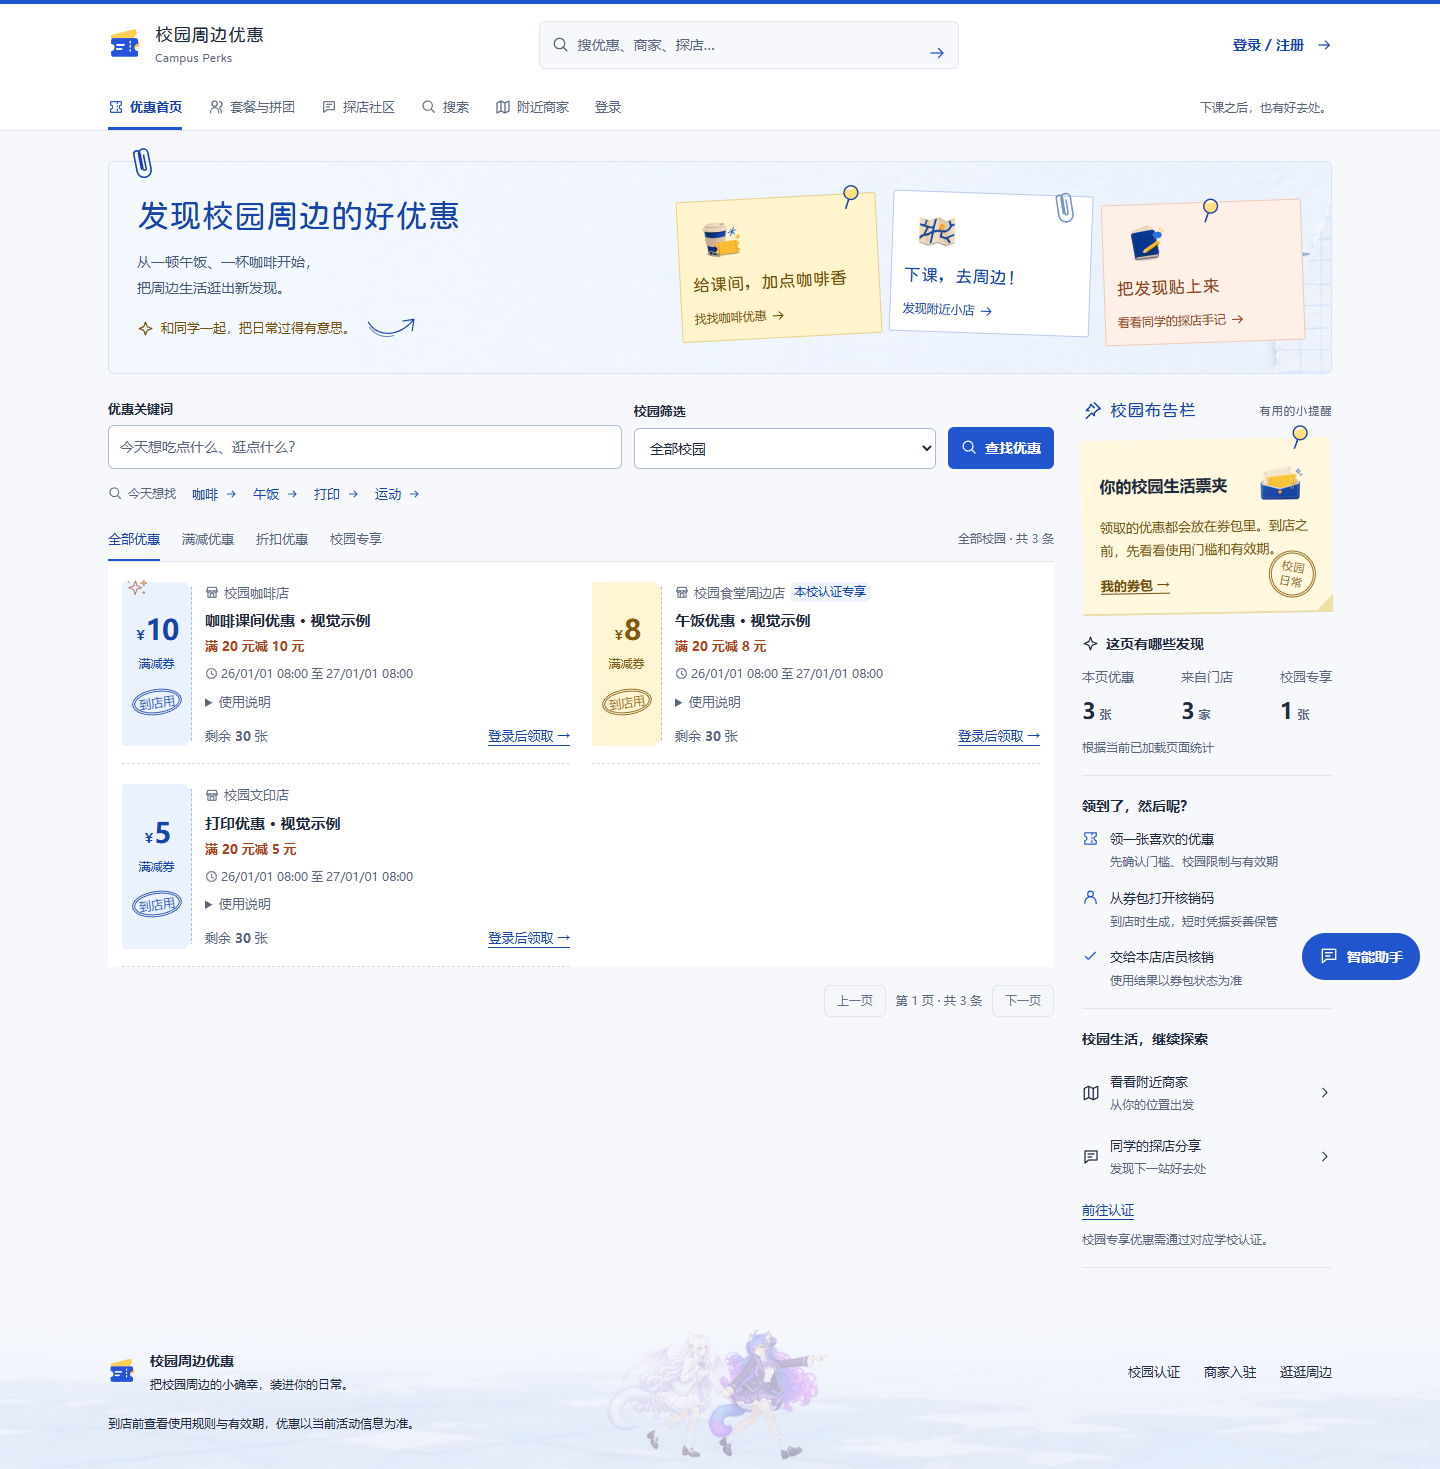
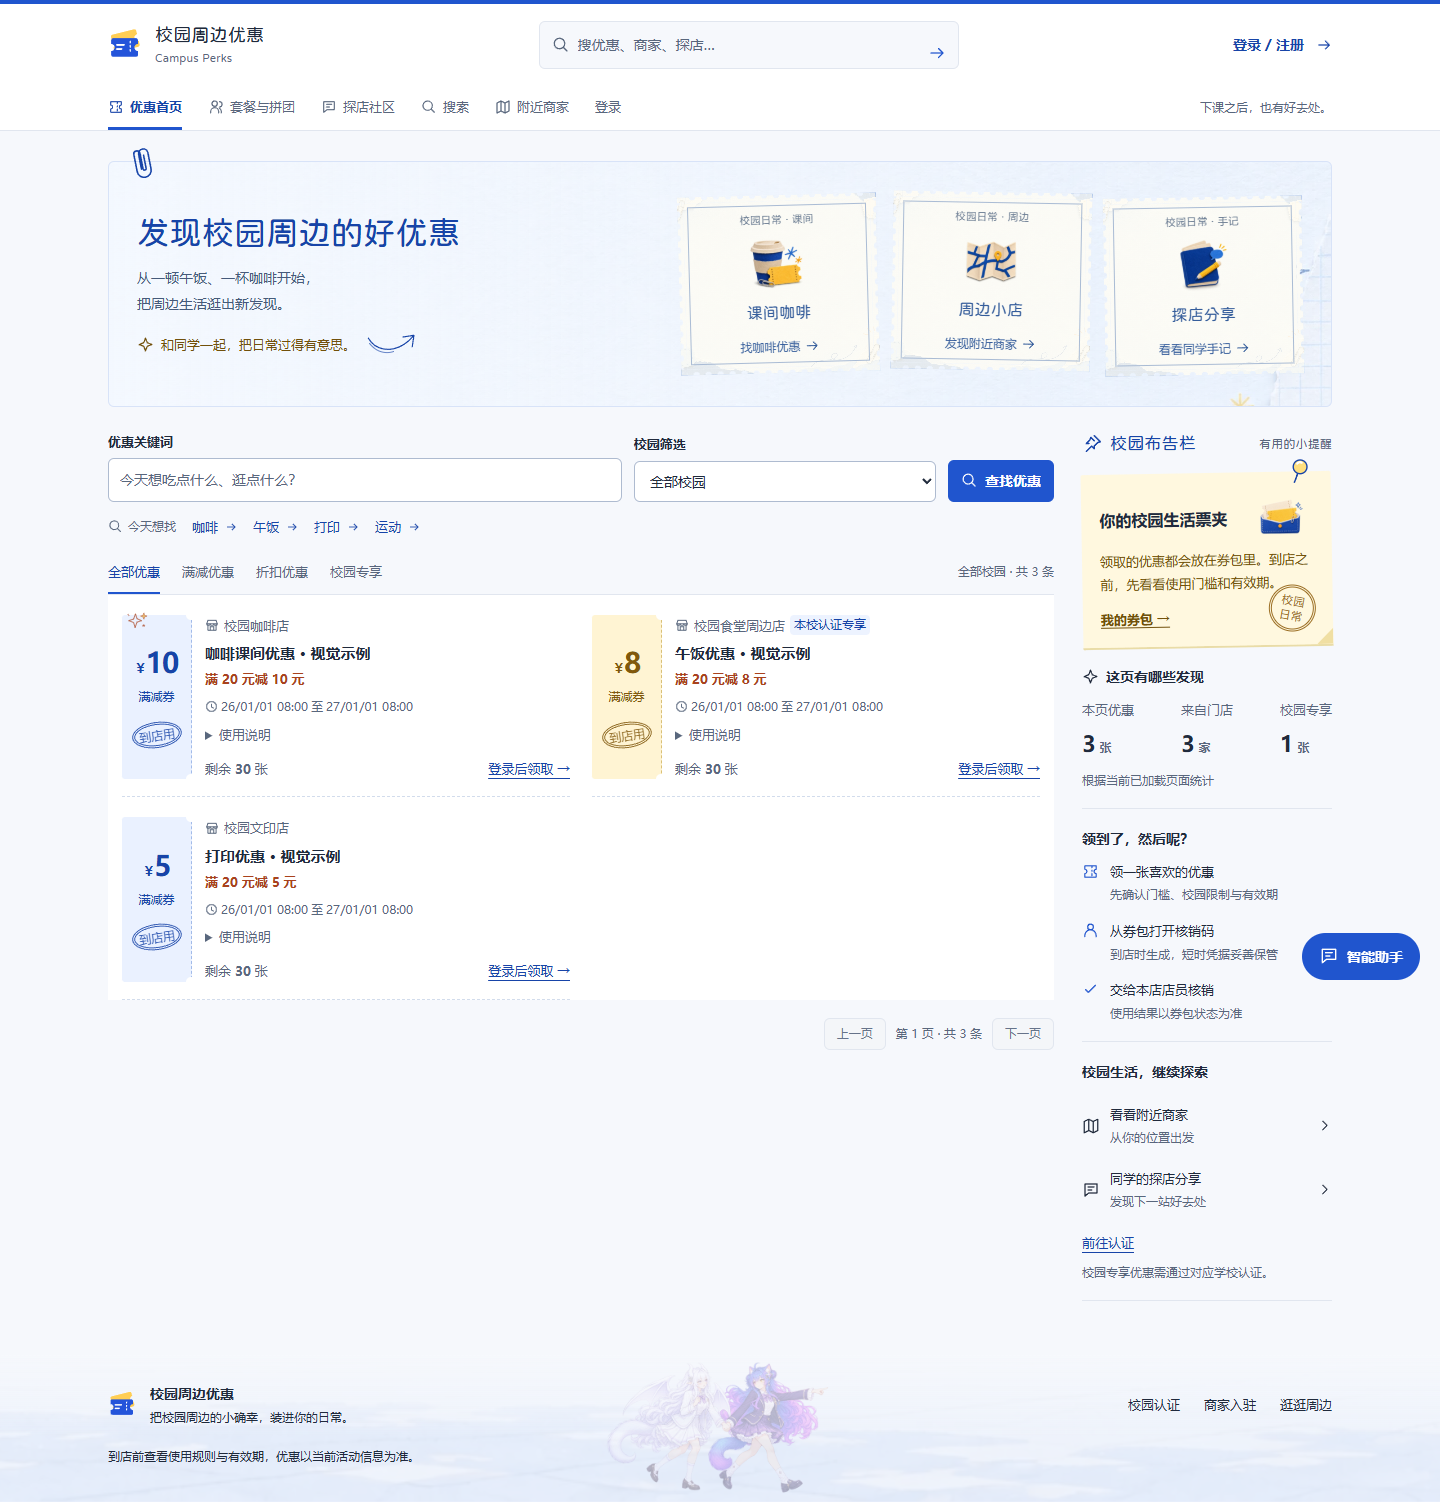
refactor(frontend-exp): present discovery entries as paper postage stamps

diff --git a/frontend/src/campus-features/campus-coupon/CouponCatalogView.vue b/frontend/src/campus-features/campus-coupon/CouponCatalogView.vue
@@ -59,10 +59,10 @@ async function claim(row: PublicCoupon) {
     <div class="discovery-intro">
       <CampusOrnament kind="clip" class="intro-fastener" />
       <div class="discovery-copy"><h1>发现校园周边的好优惠</h1><p>从一顿午饭、一杯咖啡开始，<br />把周边生活逛出新发现。</p><div class="discovery-invitation"><CampusIcon name="spark" :size="17" />和同学一起，把日常过得有意思。<CampusOrnament kind="arrow" class="invitation-arrow" /></div></div>
-      <nav class="notice-slips" aria-label="课间发现便签">
-        <button class="notice-slip coffee-slip" type="button" :disabled="busy" @click="findTopic('咖啡')"><CampusOrnament kind="pin" class="slip-fastener" /><img class="notice-slip-art" :src="coffeeTicket" alt="" aria-hidden="true" width="640" height="427" decoding="async" /><strong>给课间，加点咖啡香</strong><span>找找咖啡优惠<CampusIcon name="arrow" :size="15" /></span></button>
-        <RouterLink class="notice-slip explore-slip" to="/nearby"><CampusOrnament kind="clip" class="slip-fastener" /><img class="notice-slip-art" :src="mapDiscovery" alt="" aria-hidden="true" width="640" height="427" decoding="async" /><strong>下课，去周边！</strong><span>发现附近小店<CampusIcon name="arrow" :size="15" /></span></RouterLink>
-        <RouterLink class="notice-slip share-slip" to="/community"><CampusOrnament kind="pin" class="slip-fastener" /><img class="notice-slip-art" :src="communityNotes" alt="" aria-hidden="true" width="640" height="427" decoding="async" /><strong>把发现贴上来</strong><span>看看同学的探店手记<CampusIcon name="arrow" :size="15" /></span></RouterLink>
+      <nav class="notice-slips" aria-label="校园生活邮票入口">
+        <button class="notice-slip coffee-slip" type="button" aria-label="课间咖啡，查找咖啡优惠" :disabled="busy" @click="findTopic('咖啡')"><span class="stamp-meta" aria-hidden="true">校园日常 · 课间</span><img class="notice-slip-art" :src="coffeeTicket" alt="" aria-hidden="true" width="640" height="427" decoding="async" /><strong>课间咖啡</strong><span class="stamp-action">找咖啡优惠<CampusIcon name="arrow" :size="15" /></span></button>
+        <RouterLink class="notice-slip explore-slip" to="/nearby"><span class="stamp-meta" aria-hidden="true">校园日常 · 周边</span><img class="notice-slip-art" :src="mapDiscovery" alt="" aria-hidden="true" width="640" height="427" decoding="async" /><strong>周边小店</strong><span class="stamp-action">发现附近商家<CampusIcon name="arrow" :size="15" /></span></RouterLink>
+        <RouterLink class="notice-slip share-slip" to="/community"><span class="stamp-meta" aria-hidden="true">校园日常 · 手记</span><img class="notice-slip-art" :src="communityNotes" alt="" aria-hidden="true" width="640" height="427" decoding="async" /><strong>探店分享</strong><span class="stamp-action">看看同学手记<CampusIcon name="arrow" :size="15" /></span></RouterLink>
       </nav>
     </div>
     <div class="discovery-layout">
@@ -129,18 +129,35 @@ async function claim(row: PublicCoupon) {
 .invitation-arrow { width: 52px; height: 27px; margin-left: 3px; }
 .discovery-copy p { color: #455a7a; font-size: 14px; line-height: 1.85; margin: 0; }
 .discovery-invitation { display: flex; align-items: center; gap: 7px; color: #71500b; font-size: 13px; margin-top: 14px; }
-.notice-slips { display: grid; grid-template-columns: repeat(3, minmax(0, 1fr)); gap: 12px; padding: 10px 0; }
-.notice-slip { min-width: 0; min-height: 136px; padding: 17px 12px 12px; position: relative; display: flex; align-items: flex-start; flex-direction: column; gap: 10px; border: 1px solid #e8d08c; border-radius: 2px; background: #fff4cc; color: #71500b; font-size: 13px; text-align: left; transform: rotate(-3deg); transition: transform 220ms var(--campus-ease), background-color 150ms; }
-.slip-fastener { position: absolute; top: -12px; right: 13px; }
-.notice-slip strong { font-size: 17px; line-height: 1.6; }
-.notice-slip > span { display: flex; gap: 4px; align-items: center; font-size: 12px; font-weight: 400; margin-top: auto; }
-.notice-slip:hover, .notice-slip:focus-visible { transform: rotate(0) translateY(-3px); }
-.notice-slip.coffee-slip:hover:not(:disabled) { background: #ffebac; }
-.notice-slip:disabled { background: #fff4cc; color: #71500b; cursor: wait; }
-.explore-slip { background: white; border-color: #b9caec; color: var(--campus-blue-strong); transform: rotate(2deg) translateY(-4px); }
-.explore-slip .slip-fastener { top: -9px; right: 15px; color: #7795ca; }
-.share-slip .slip-fastener { top: -7px; right: calc(50% - 20px); }
-.share-slip { background: #fff0e7; border-color: #efcbb5; color: #91421e; transform: rotate(-2deg) translateY(5px); }
+.notice-slips { display: grid; grid-template-columns: repeat(3, minmax(0, 1fr)); gap: 14px; padding: 8px 0; }
+.notice-slip {
+  --stamp-ink: #355d9b;
+  min-width: 0; min-height: 178px; padding: 17px 15px 18px;
+  position: relative; display: flex; align-items: center; flex-direction: column; gap: 7px;
+  border: 0; border-radius: 0; color: var(--stamp-ink); text-align: center; text-decoration: none;
+  background: #fffdf5;
+  background-image: linear-gradient(#fffdf5df, #fffdf5df), url('../../assets/campus-exp/board-paper.webp');
+  background-size: cover; background-position: center;
+  /* Edge-only masks make actual perforations; the central live text stays solid. */
+  --stamp-edge: linear-gradient(#000 0 0) center / calc(100% - 12px) calc(100% - 12px) no-repeat,
+    radial-gradient(circle at 50% 0, #0000 3px, #000 3.5px) top / 12px 6px repeat-x,
+    radial-gradient(circle at 50% 100%, #0000 3px, #000 3.5px) bottom / 12px 6px repeat-x,
+    radial-gradient(circle at 0 50%, #0000 3px, #000 3.5px) left / 6px 12px repeat-y,
+    radial-gradient(circle at 100% 50%, #0000 3px, #000 3.5px) right / 6px 12px repeat-y;
+  -webkit-mask: var(--stamp-edge); mask: var(--stamp-edge);
+  transform: rotate(-1.5deg);
+  transition: transform 220ms var(--campus-ease), background-color 150ms;
+}
+.notice-slip::before { content: ''; position: absolute; inset: 10px; border: 1px solid #a9bbd4; pointer-events: none; }
+.notice-slip .stamp-meta { display: block; font-size: 10px; line-height: 1.5; letter-spacing: .06em; font-weight: 400; color: #6b7c92; }
+.notice-slip .notice-slip-art { width: 88px; height: 59px; }
+.notice-slip strong { font-size: 16px; line-height: 1.5; font-weight: 650; }
+.notice-slip .stamp-action { display: flex; justify-content: center; gap: 4px; align-items: center; font-size: 12px; font-weight: 400; margin-top: auto; line-height: 1.5; }
+.notice-slip:hover:not(:disabled), .notice-slip:focus-visible { background-color: #fff8e8; transform: rotate(0) translateY(-3px); }
+.notice-slip:focus-visible { outline: 3px solid var(--campus-blue); outline-offset: -10px; }
+.notice-slip:disabled { color: var(--stamp-ink); cursor: wait; }
+.explore-slip { transform: rotate(1deg) translateY(-3px); }
+.share-slip { transform: rotate(-1deg) translateY(2px); }
 .discovery-layout { display: grid; grid-template-columns: minmax(0, 1fr) 250px; gap: 28px; align-items: start; }
 .discovery-main { min-width: 0; }
 .discovery-filters { margin: 0 0 10px; }
@@ -217,7 +234,7 @@ async function claim(row: PublicCoupon) {
   .discovery-intro { grid-template-columns: minmax(0, 1fr); gap: 10px; }
   .discovery-copy { display: block; }
   .discovery-copy h1 { font-size: 27px; }.discovery-invitation { max-width: none; margin-top: 10px; }
-  .notice-slip { min-height: 108px; gap: 5px; }.notice-slips { gap: 18px; }
+  .notice-slip { min-height: 165px; gap: 5px; }.notice-slips { gap: 18px; }
   .discovery-layout { grid-template-columns: minmax(0, 1fr) 225px; gap: 20px; }
   .coupon-tickets { grid-template-columns: minmax(0, 1fr); }.coupon-ticket { grid-template-columns: 80px minmax(0, 1fr); }.ticket-content h2 { font-size: 16px; }
 }
@@ -229,12 +246,20 @@ async function claim(row: PublicCoupon) {
 @media(max-width: 520px) {
   .discovery-intro { padding: 17px 14px 12px; margin-bottom: 18px; gap: 6px; }
   .discovery-copy { display: block; }.discovery-copy h1 { font-size: 24px; }.discovery-copy p { font-size: 13px; }.discovery-copy p br { display: none; }.discovery-invitation { max-width: none; margin-top: 8px; font-size: 12px; }
-  .notice-slips { gap: 8px; padding-top: 13px; }.notice-slip { min-height: 102px; padding: 12px 7px 8px; gap: 5px; }.notice-slip > .campus-icon { width: 20px; height: 20px; }.notice-slip strong { font-size: 12px; }.notice-slip > span { font-size: 11px; line-height: 1.5; }.notice-slip > span .campus-icon { display: none; }
+  .notice-slips { gap: 7px; padding-top: 13px; }
+  .notice-slip { min-height: 140px; padding: 13px 12px 15px; gap: 5px; }
+  .notice-slip::before { inset: 7px; }
+  .notice-slip .stamp-meta { font-size: 8px; letter-spacing: 0; }
+  .notice-slip .notice-slip-art { width: 58px; height: 39px; max-width: 100%; }
+  .notice-slip strong { font-size: 12px; }
+  .notice-slip .stamp-action { font-size: 10px; }
+  .notice-slip .stamp-action .campus-icon { display: none; }
   .discovery-filters { grid-template-columns: minmax(0, 1fr) 110px; gap: 8px; }.discovery-filters input,.discovery-filters select { padding: 7px 8px; }.discovery-filters button { padding-inline: 8px; }
   .topic-strip { gap: 4px 14px; }.topic-strip button { min-height: 32px; }.topic-strip > span { font-size: 12px; }
   .coupon-tabs { width: 100%; justify-content: space-between; gap: 0; }.coupon-tabs button { min-height: 44px; }.result-note { display: block; padding-bottom: 9px; }
   .coupon-tickets { padding-inline: 12px; }.coupon-ticket { grid-template-columns: 64px minmax(0, 1fr); gap: 12px; padding: 18px 0; }.ticket-value { padding-inline: 4px; }.ticket-number { font-size: 26px; }.ticket-content h2 { font-size: 15px; }.ticket-actions button { min-height: 40px; padding: 7px 10px; }.ticket-merchant { font-size: 13px; }
   .campus-board { grid-template-columns: 1fr; gap: 0; }.board-title { margin: 15px 0 20px; }.board-note { margin-top: 0; }.board-section { padding-block: 18px; }.coupon-loading { grid-template-columns: 1fr; }
 }
-@media(prefers-reduced-motion: reduce) { .ticket-tear,.is-tearing .ticket-content { animation: none; }.notice-slip,.notice-slip:hover,.notice-slip:focus-visible { transform: none; } }
+@media(max-width: 360px) { .notice-slip { padding-inline: 9px; }.notice-slip::before { inset: 6px; } }
+@media(prefers-reduced-motion: reduce) { .ticket-tear,.is-tearing .ticket-content { animation: none; }.notice-slip,.notice-slip:hover,.notice-slip:hover:not(:disabled),.notice-slip:focus-visible { transform: none; transition: none; } }
 </style>

diff --git a/VISUAL-ASSETS.md b/VISUAL-ASSETS.md
@@ -37,7 +37,7 @@ Use case: stylized-concept. Asset type: compact transparent-background paper-cra
 
 ## 入口组一致性修正
 
-咖啡、附近商家、探店分享三个入口全部使用同一咖啡素材作为风格参照的纸艺图，不再混用线性主图。三个主图使用统一展示尺寸、对齐与动效，分享入口的胶带换为图钉。
+咖啡、附近商家、探店分享三个入口全部使用同一咖啡素材作为风格参照的纸艺图，不再混用线性主图。后续按用户反馈将三张容器整体改为同款邮票，移除入口上的图钉、回形针和彩色便签底。
 
 ### map-discovery
 
@@ -70,3 +70,7 @@ Generate a NEW isolated decorative artwork. Supplied coffee-and-ticket image is 
 用户要求仅票券图形、站名独立显示，并从三款实际预览中选择 C。Logo 采用矢量绘制，源文件为 [campus-logo.svg](frontend/src/assets/campus-exp/campus-logo.svg)，统一由 CampusMark 组件用于学生端、商家端、管理端及页脚。HTML 关联同一 SVG，并提供 [16px](frontend/public/favicon-16.png)、[32px](frontend/public/favicon-32.png) PNG 后备图标。浏览器验证确认构建后品牌图与 SVG favicon 的路径几何、变换和配色一致，两个 PNG 图标正常加载。
 
 本次提交仅在实验分支，未部署或合并到前端主分支。视觉预览使用示例数据，不发送短信，不执行领券、支付、审核等业务写操作。
+
+## 邮票入口更新
+
+三枚同款浅米白纸纹邮票，四边为真正透明的 CSS 齿孔，内框统一校园蓝。纸纹复用既有生成素材，齿孔及文字由原生界面绘制，保留实际按钮和链接。入口改为「课间咖啡」「周边小店」「探店分享」，对应原关键词查询和路由；不仿造邮资、折扣或商家活动信息。窄屏适配到 320px；键盘焦点轮廓位于齿孔内侧，减少动态效果设置下停用抬升和倾斜。已确认的 C 款 Logo 与 favicon 保留。

diff --git a/README.md b/README.md
@@ -10,6 +10,8 @@
 
 [电脑效果](visual-preview/desktop.png) · [手机效果](visual-preview/mobile.png) · [三入口统一效果](visual-preview/entry-family.png)
 
+三个入口已按后续反馈改成同款邮票：浅色纸纹、四边齿孔和蓝色内框，保留咖啡／地图／手记纸艺图案与原有操作。
+
 Vue 3 + TypeScript + Vite 的校园周边优惠平台界面，包含用户、商家、管理员三端。登录后根据服务端账号类型进入对应端，菜单与资源访问同时受服务端权限校验。
 
 ## 仓库分支
